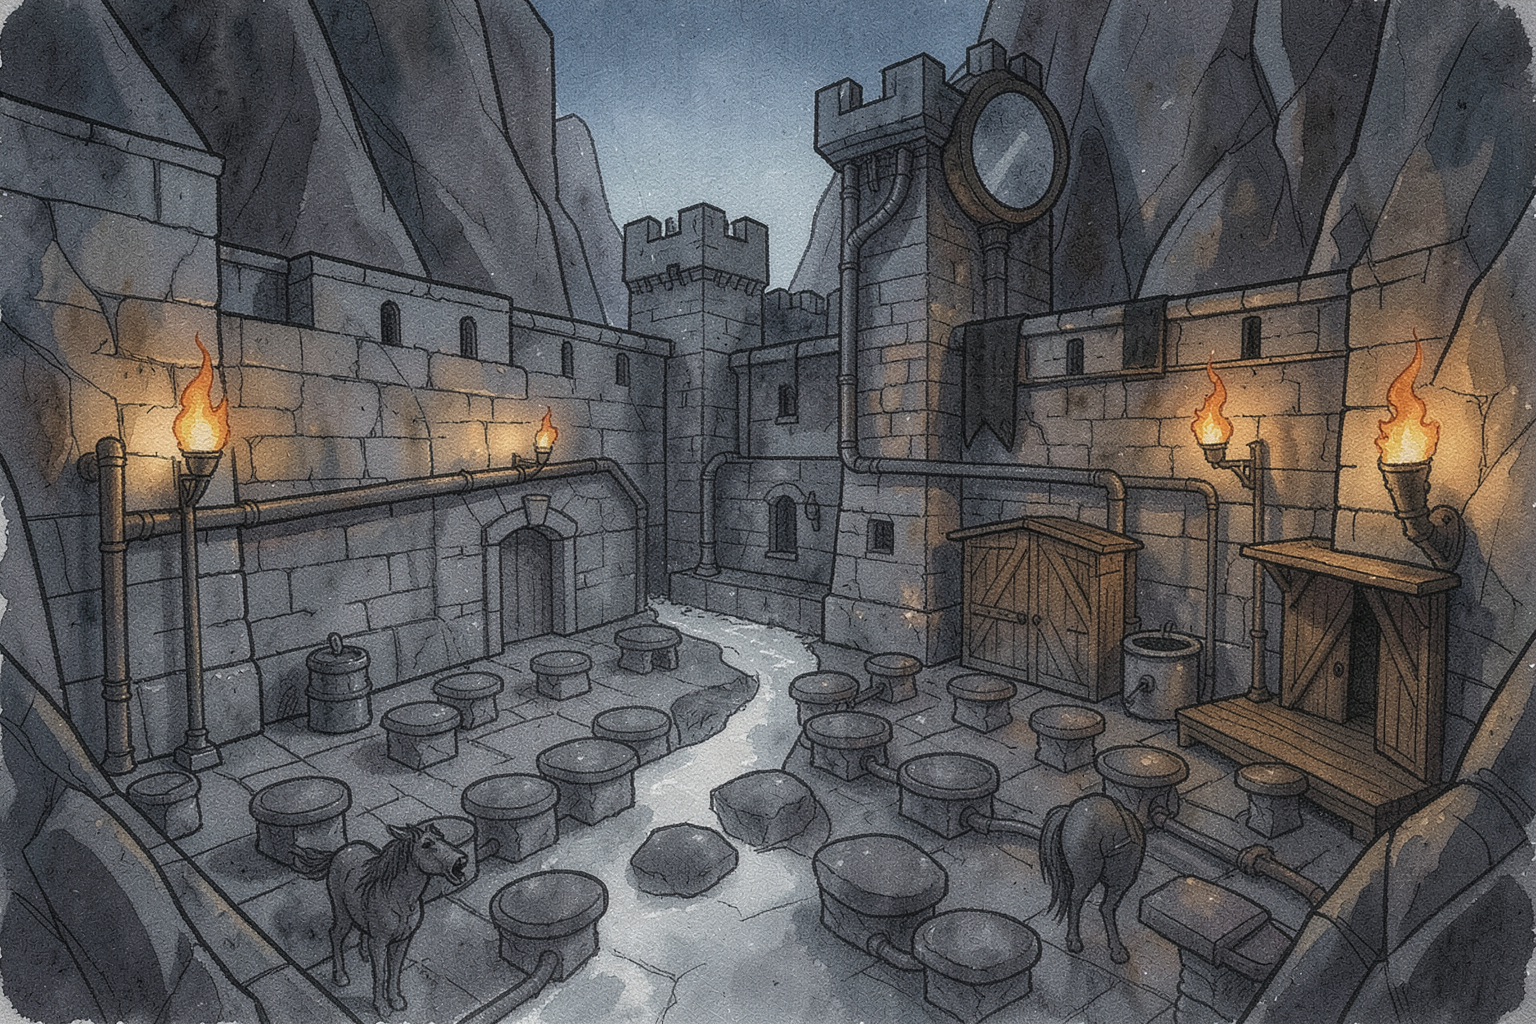
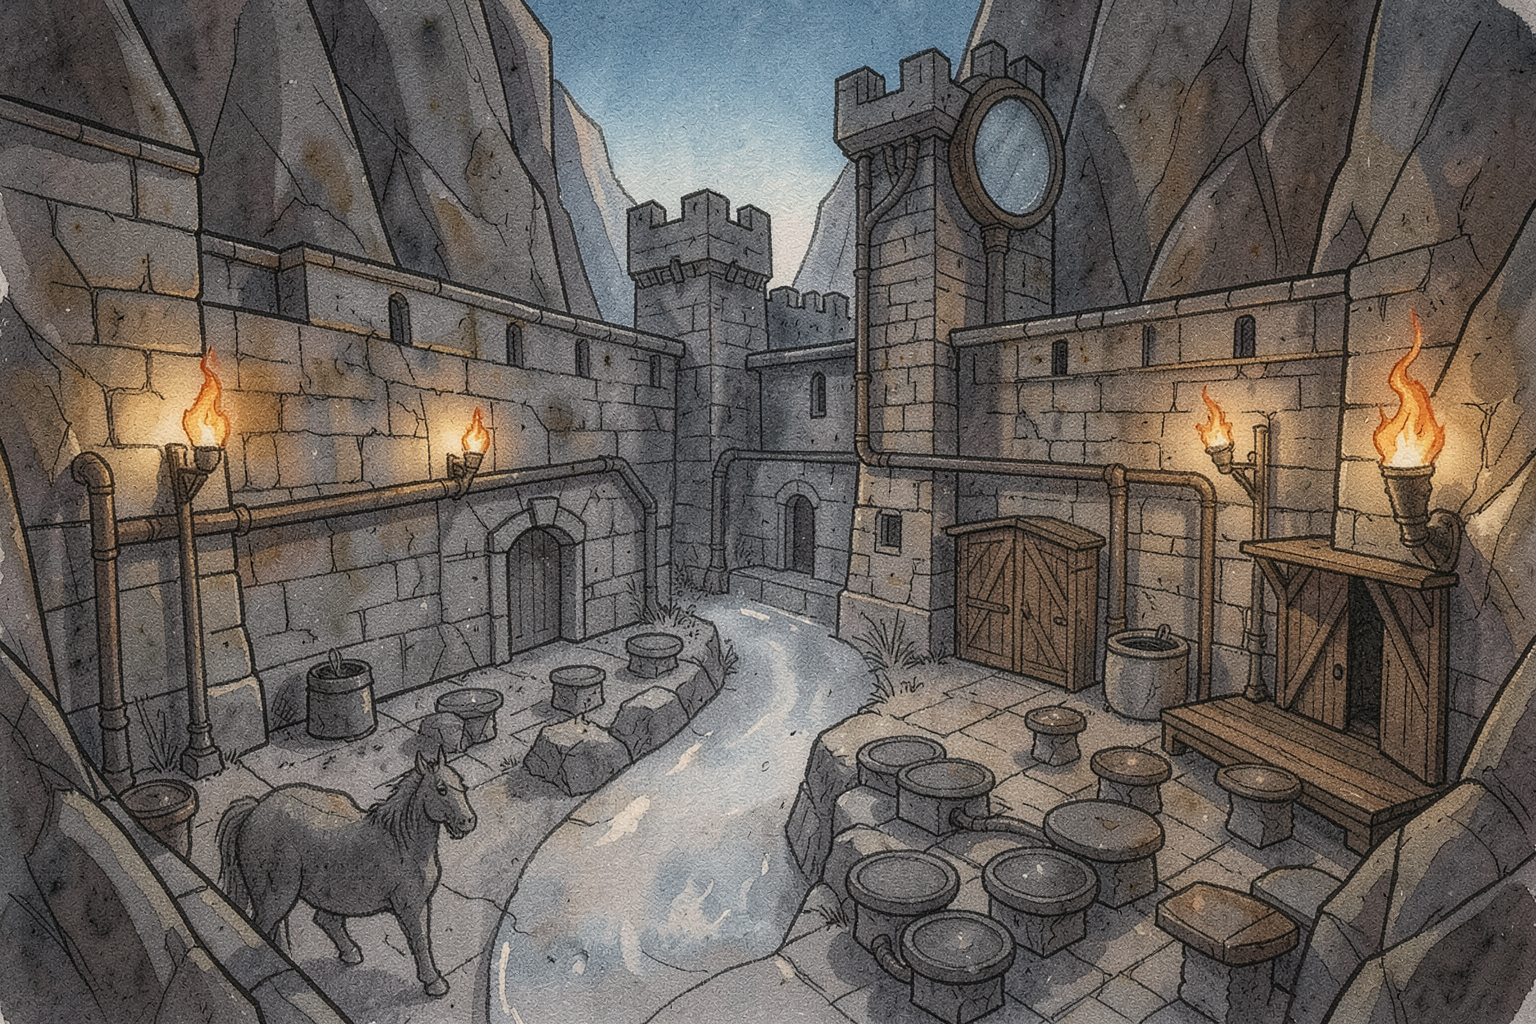
Perle 6: Schweigen im Spalt ohne halbes Pferd (Seed 11)

diff --git a/docs/art/szenen/perle-6/README.md b/docs/art/szenen/perle-6/README.md
@@ -142,7 +142,7 @@ Alle mit `tools/erzeuge-szene.ps1`, FLUX.2 klein 4B, je 6 Seeds. Übersicht: `ue
 | `szene-hinter-dem-stall-liora` / `-cassian` | 3 / 3 | Kind ohne Jacke im weißen Hemd |
 | `szene-festmahl-vardholm` | 3 | – |
 | `szene-funken-frei` | 3 | Die freigelassenen Funken sind kaum zu sehen |
-| `szene-schweigen-im-spalt` | 10 (Runde 2, 19.10.2026) | Runde 1 wirkte wie Nebel; jetzt klar und farblos. Kein Spiegel mit Riss erkennbar |
+| `szene-schweigen-im-spalt` | 11 (Runde 2, 19.10.2026) | Runde 1 wirkte wie Nebel; jetzt klar und farblos. Seed 10 hatte rechts ein halbes Pferd (von Pasco bemerkt) und wurde durch Seed 11 ersetzt: ein ganzes graues Pferd. Kein Spiegel mit Riss erkennbar |
 | `szene-ruf-gross-erde` / `-feuer` / `-wasser` / `-wind` | 3 / 2 / 3 / 3 | – |
 | `entdeckung-vardholm-morgen` | 2 | – |
 | `tagebuch-perle-6` | 5 | Buch auf Tisch; unleserliche Notizen |
